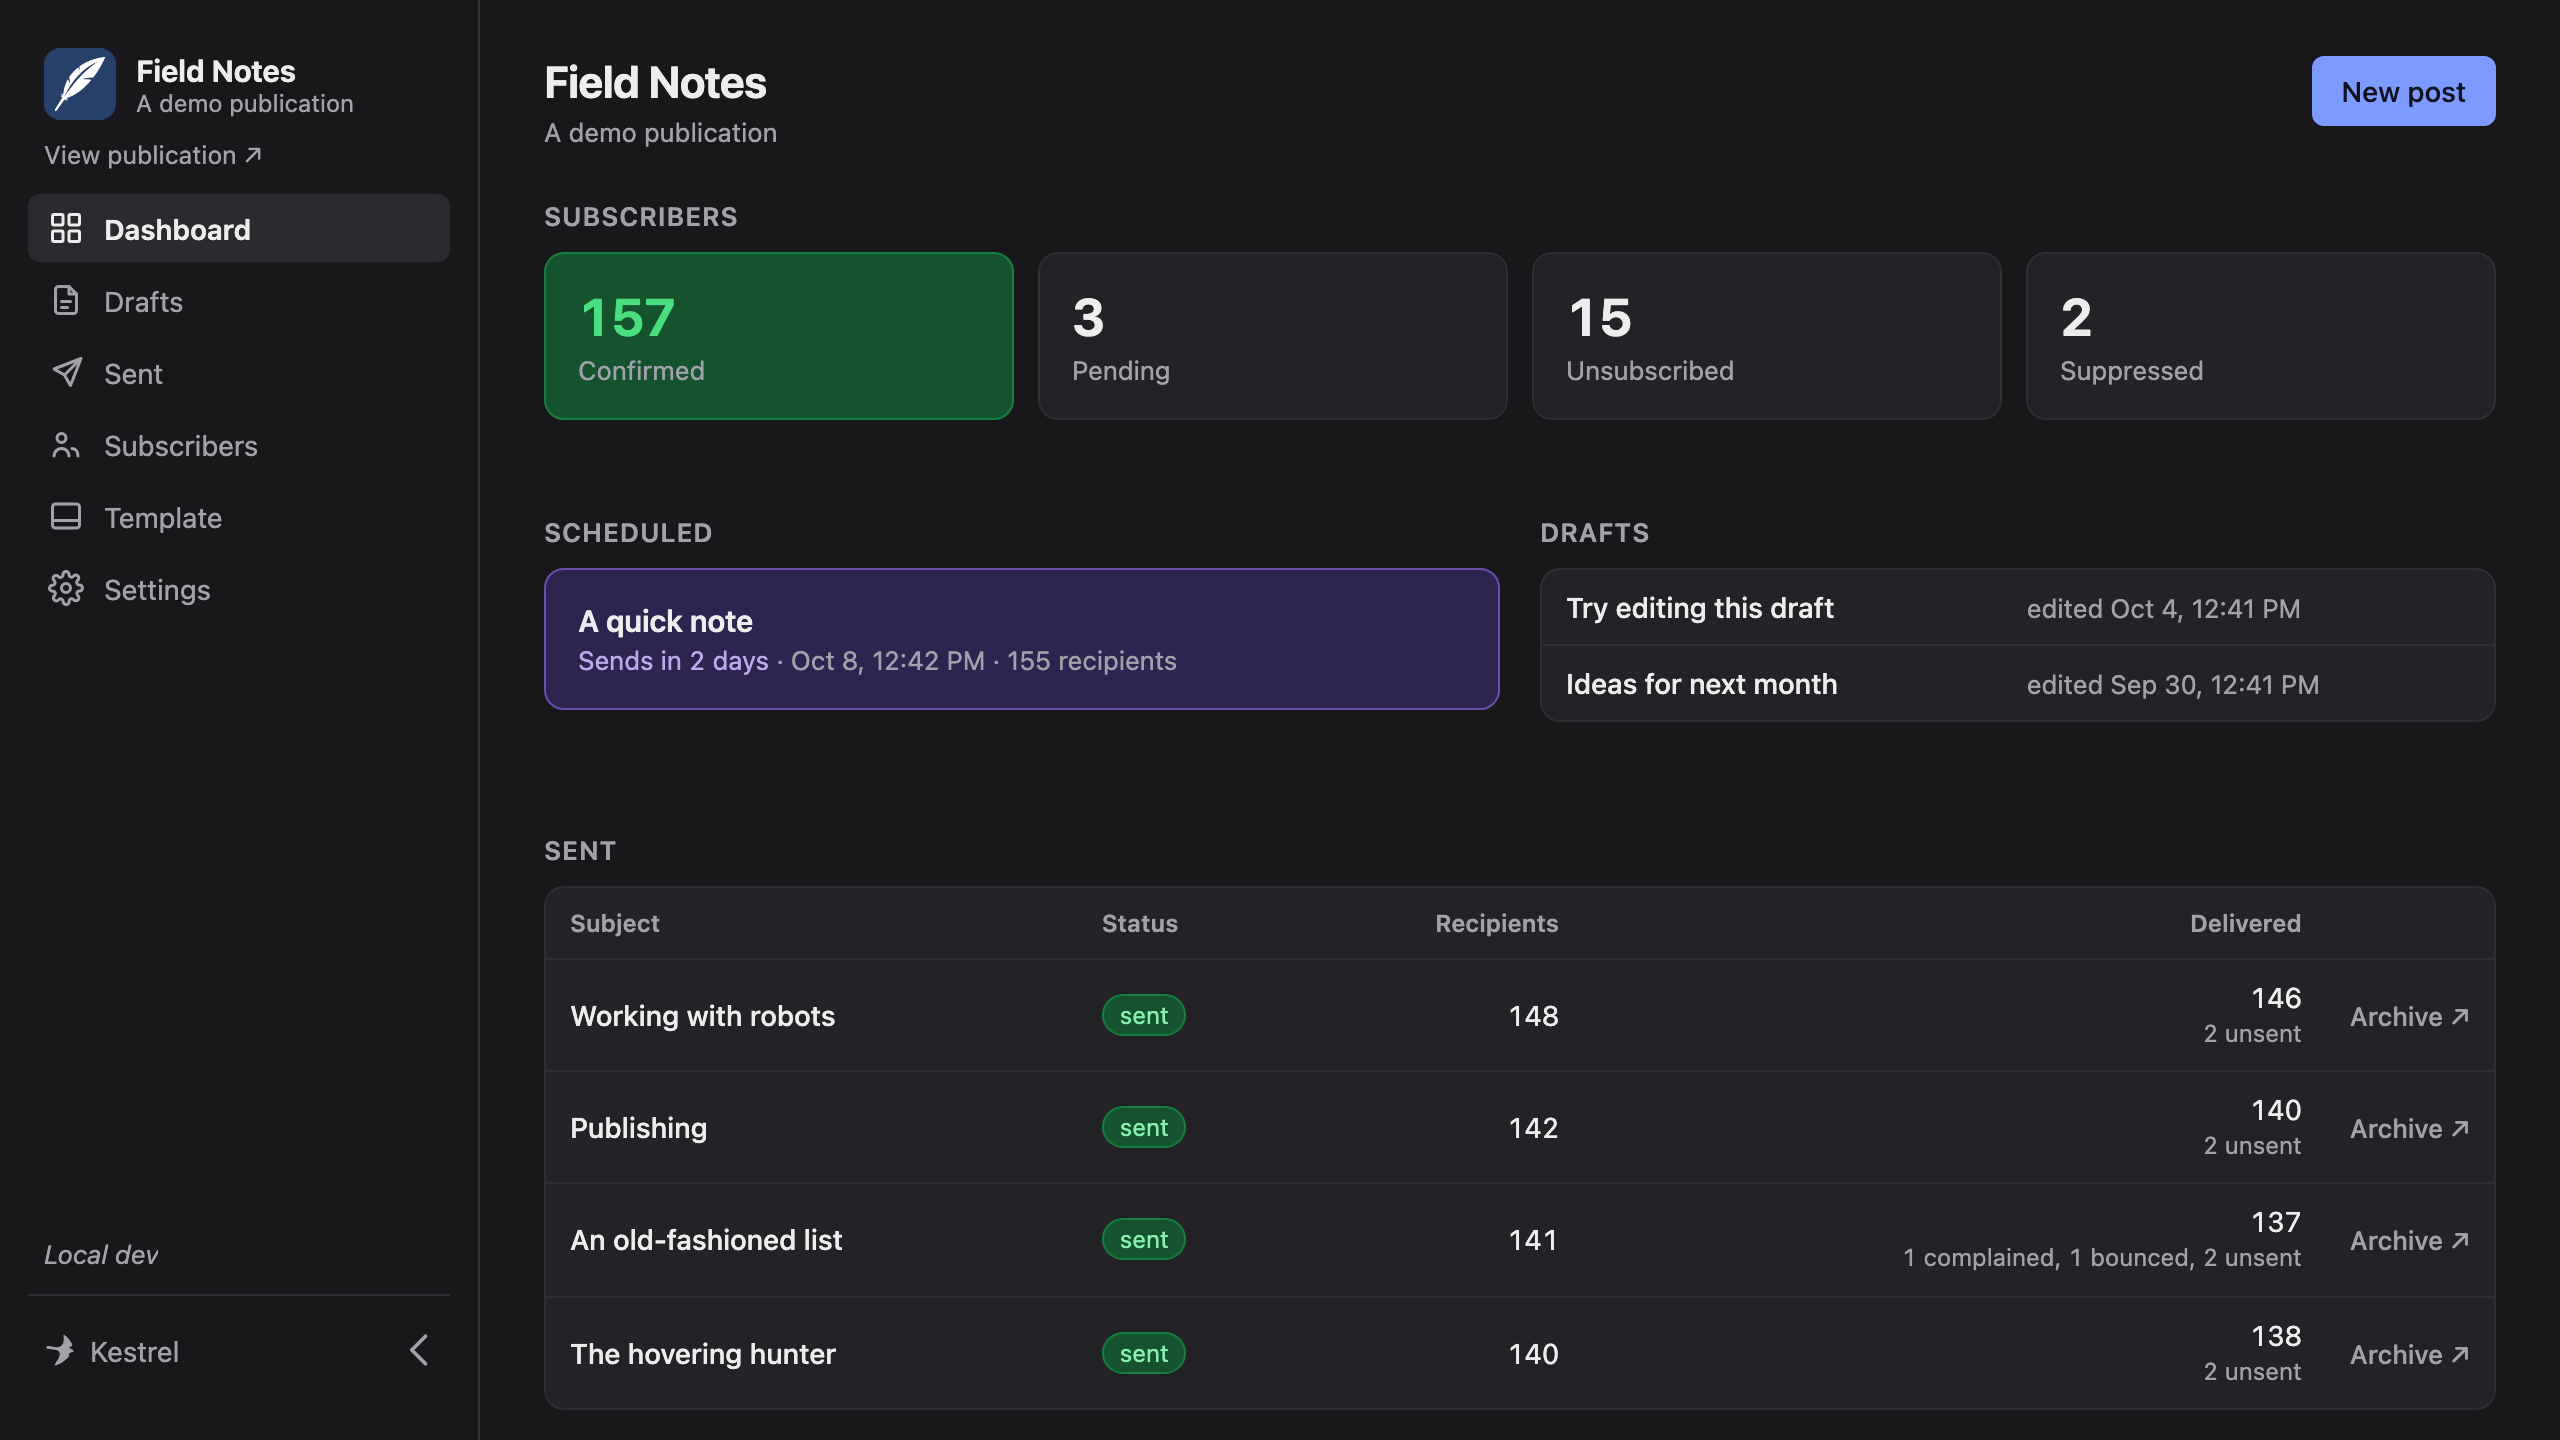
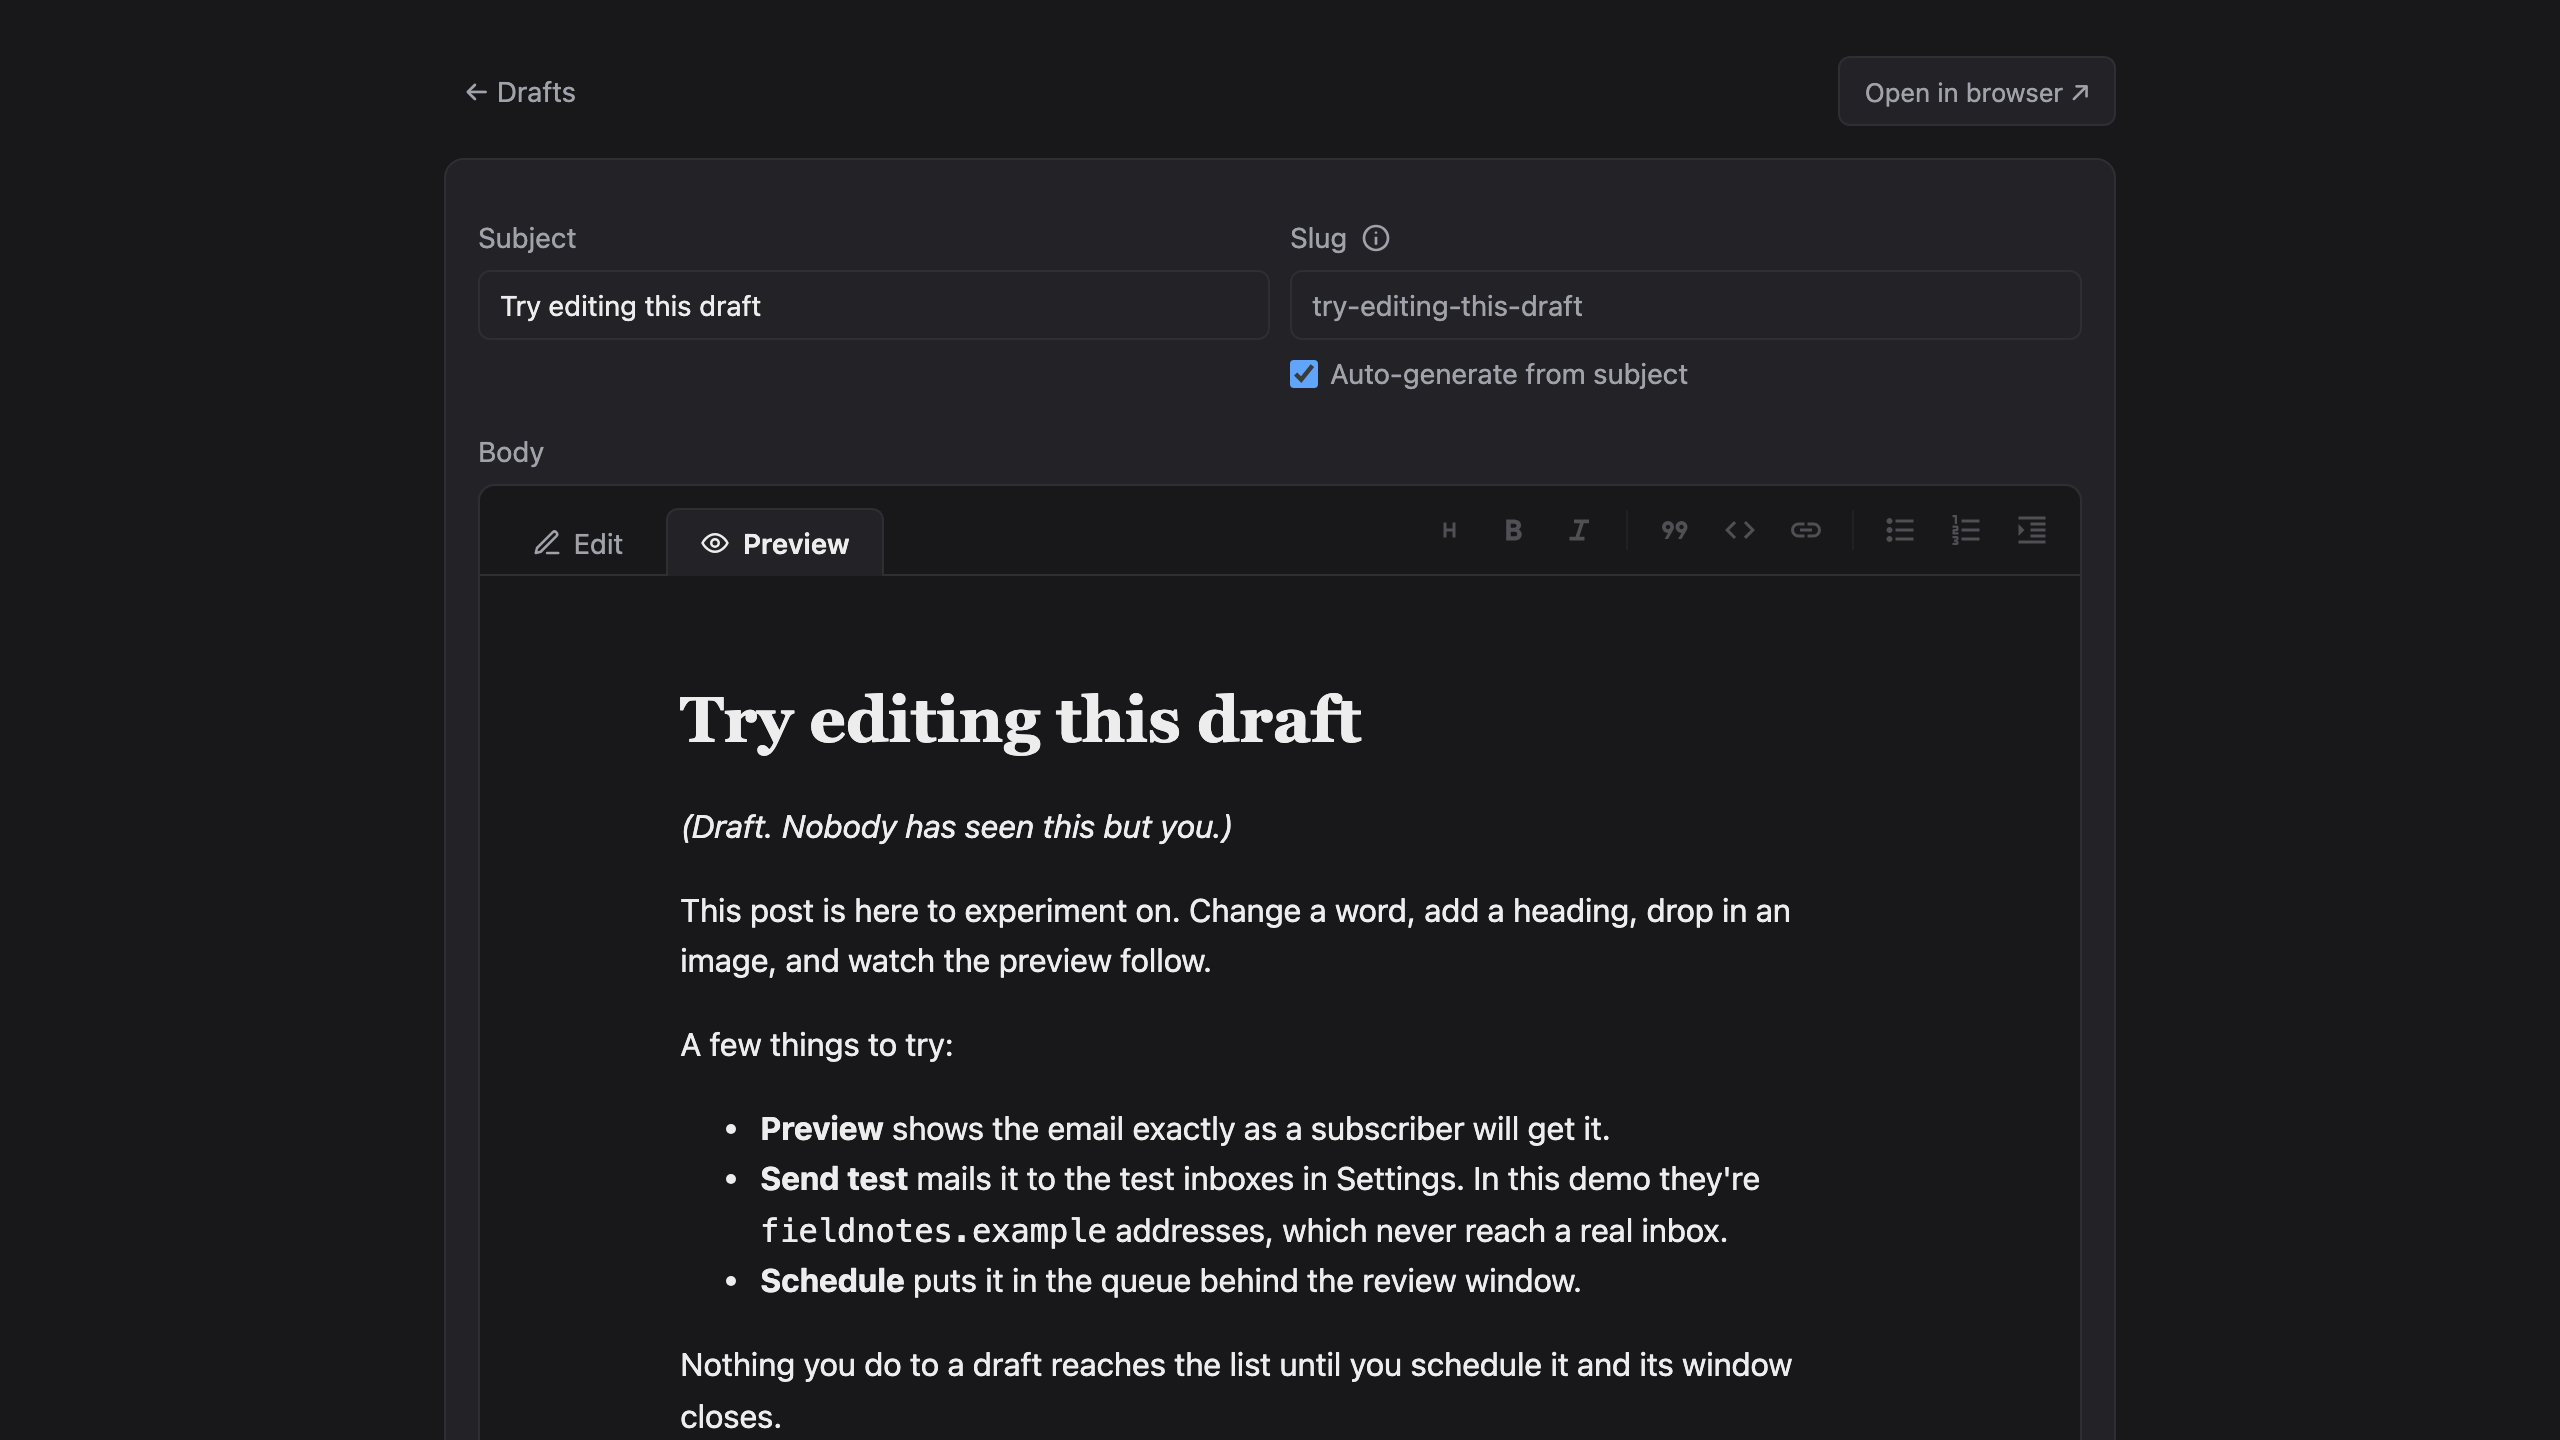
Landing: tabbed Dashboard · Editor · Archive screenshot switcher (#19)
Replace the single hero screenshot with a user-driven, WAI-ARIA tabbed switcher inside the app-preview frame. No autoplay. Each view keeps a light + dark pair, served as fingerprinted WebP at 1000w/2000w via Hugo image processing. Only the default view loads up front; the others attach their sources on first hover, focus, or select. Without JS, the tabs stay hidden and the dashboard shows.

Screenshots: rename the old editor-*.png (it was the dashboard) to dashboard-*.png, and add a real editor shot: the "Try editing this draft" draft on its Preview tab. shots.mjs gains an optional per-shot in-page `steps` script to reach it. All six were recaptured from a seeded kestrel v1.2.0.

diff --git a/layouts/index.html b/layouts/index.html
@@ -17,22 +17,96 @@
     </div>
     <p class="cta-note">Runs on your own Cloudflare account. Your data never leaves it.</p>
 
-    {{ $shotLight := resources.Get "img/editor-light.png" | fingerprint -}}
-    {{ $shotDark := resources.Get "img/editor-dark.png" | fingerprint -}}
-    <div class="preview">
+    {{/* App preview: a tabbed switcher over real screenshots (npm run shots). Each view
+         keeps a light + dark pair, swapped by prefers-color-scheme, served as WebP at two
+         widths. Only the first view loads eagerly; the others carry data-src/data-srcset,
+         which the script attaches the first time their tab is hovered, focused, or picked
+         (loading=lazy alone isn't enough: Chrome fetches lazy images in a hidden panel
+         once the frame nears the viewport). Without JS the tabs stay hidden and the
+         dashboard shows. */ -}}
+    {{ $views := slice
+      (dict "id" "dashboard" "label" "Dashboard" "path" "/dashboard/"
+        "alt" "The Kestrel dashboard for the Field Notes demo publication, showing subscriber counts, a scheduled issue, two drafts, and the sent issues with their delivery counts.")
+      (dict "id" "editor" "label" "Editor" "path" "/dashboard/#/edit/5eed0006-0000-4000-8000-000000000006"
+        "alt" "The Kestrel editor with the Field Notes draft “Try editing this draft” open on its Preview tab, showing the rendered email exactly as subscribers will receive it.")
+      (dict "id" "archive" "label" "Archive" "path" "/archive/the-hovering-hunter"
+        "alt" "A published Field Notes issue, “The hovering hunter,” on its permanent public archive page, with a photo of a kestrel in flight.")
+    -}}
+    {{ $sizes := "(min-width: 1024px) 976px, calc(100vw - 48px)" -}}
+    <div class="preview" data-preview>
       <div class="preview-bar">
         <span class="dot"></span><span class="dot"></span><span class="dot"></span>
-        <span class="addr">localhost:8787/dashboard</span>
+        <span class="addr" data-addr>localhost:8787{{ (index $views 0).path }}</span>
+        <div class="preview-tabs" role="tablist" aria-label="App screenshots" hidden>
+          {{- range $i, $v := $views }}
+          <button type="button" role="tab" id="shot-tab-{{ $v.id }}" aria-controls="shot-{{ $v.id }}"
+            aria-selected="{{ if eq $i 0 }}true{{ else }}false{{ end }}"{{ if ne $i 0 }} tabindex="-1"{{ end }}
+            data-path="{{ $v.path }}">{{ $v.label }}</button>
+          {{- end }}
+        </div>
       </div>
-      <div class="preview-body">
+      {{- range $i, $v := $views }}
+      {{- $light := resources.Get (printf "img/%s-light.png" $v.id) -}}
+      {{- $dark := resources.Get (printf "img/%s-dark.png" $v.id) -}}
+      {{- $l1 := $light.Resize "1000x webp q82" | fingerprint -}}
+      {{- $l2 := $light.Resize "2000x webp q82" | fingerprint -}}
+      {{- $d1 := $dark.Resize "1000x webp q82" | fingerprint -}}
+      {{- $d2 := $dark.Resize "2000x webp q82" | fingerprint }}
+      {{- $pre := cond (eq $i 0) "" "data-" }}
+      <div class="preview-body" role="tabpanel" id="shot-{{ $v.id }}" aria-labelledby="shot-tab-{{ $v.id }}"{{ if ne $i 0 }} hidden{{ end }}>
         <picture>
-          <source srcset="{{ $shotDark.RelPermalink }}" media="(prefers-color-scheme: dark)">
-          <img src="{{ $shotLight.RelPermalink }}" width="2560" height="1440" loading="eager"
-            decoding="async"
-            alt="The Kestrel editor: the dashboard for the Field Notes demo publication, showing subscriber counts, a scheduled issue, two drafts, and the sent issues.">
+          <source type="image/webp" media="(prefers-color-scheme: dark)" sizes="{{ $sizes }}"
+            {{ $pre | safeHTMLAttr }}srcset="{{ $d1.RelPermalink }} 1000w, {{ $d2.RelPermalink }} 2000w">
+          <source type="image/webp" sizes="{{ $sizes }}"
+            {{ $pre | safeHTMLAttr }}srcset="{{ $l1.RelPermalink }} 1000w, {{ $l2.RelPermalink }} 2000w">
+          <img {{ $pre | safeHTMLAttr }}src="{{ $l2.RelPermalink }}" width="2000" height="1125" decoding="async"
+            alt="{{ $v.alt }}">
         </picture>
       </div>
+      {{- end }}
     </div>
+    <script>
+      // The preview's tabs (WAI-ARIA tabs, automatic activation): click or arrow keys
+      // swap the panel and the fake address bar. No autoplay; the reader drives it.
+      (function () {
+        var root = document.querySelector("[data-preview]");
+        if (!root) { return; }
+        var list = root.querySelector("[role=tablist]");
+        var tabs = Array.prototype.slice.call(list.querySelectorAll("[role=tab]"));
+        var addr = root.querySelector("[data-addr]");
+        // Attach a panel's deferred image sources (a no-op once they're attached).
+        function hydrate(tab) {
+          var panel = document.getElementById(tab.getAttribute("aria-controls"));
+          panel.querySelectorAll("[data-srcset], [data-src]").forEach(function (el) {
+            if (el.dataset.srcset) { el.srcset = el.dataset.srcset; el.removeAttribute("data-srcset"); }
+            if (el.dataset.src) { el.src = el.dataset.src; el.removeAttribute("data-src"); }
+          });
+        }
+        function select(tab, focus) {
+          hydrate(tab);
+          tabs.forEach(function (t) {
+            var on = t === tab;
+            t.setAttribute("aria-selected", on ? "true" : "false");
+            t.tabIndex = on ? 0 : -1;
+            document.getElementById(t.getAttribute("aria-controls")).hidden = !on;
+          });
+          addr.textContent = "localhost:8787" + tab.dataset.path;
+          if (focus) { tab.focus(); }
+        }
+        tabs.forEach(function (tab, i) {
+          tab.addEventListener("click", function () { select(tab, false); });
+          tab.addEventListener("pointerenter", function () { hydrate(tab); });
+          tab.addEventListener("focus", function () { hydrate(tab); });
+          tab.addEventListener("keydown", function (e) {
+            var next = { ArrowRight: i + 1, ArrowLeft: i - 1, Home: 0, End: tabs.length - 1 }[e.key];
+            if (next === undefined) { return; }
+            e.preventDefault();
+            select(tabs[(next + tabs.length) % tabs.length], true);
+          });
+        });
+        list.hidden = false;
+      })();
+    </script>
   </div>
 </section>
 

diff --git a/assets/css/main.css b/assets/css/main.css
@@ -184,8 +184,9 @@ h1, h2, h3 {
 .hero .cta-note { font-family: var(--mono); font-size: 12.5px; color: var(--muted); margin: 18px 0 0; }
 .hero .cta-note code { background: none; padding: 0; }
 
-/* app preview frame — a browser-chrome shell around a real editor screenshot
-   (assets/img/editor-{light,dark}.png, swapped by prefers-color-scheme). */
+/* app preview frame — a browser-chrome shell around real app screenshots
+   (assets/img/{dashboard,editor,archive}-{light,dark}.png, swapped by
+   prefers-color-scheme), with tabs in the bar to switch between views. */
 .preview {
   margin: 56px 0 8px;
   border: 1px solid var(--line-strong);
@@ -204,12 +205,32 @@ h1, h2, h3 {
 }
 .preview-bar .dot { width: 11px; height: 11px; border-radius: 50%; background: var(--line-strong); }
 .preview-bar .addr {
+  flex: 1 1 0;
+  min-width: 0;
   margin-left: 10px;
   font-family: var(--mono);
   font-size: 12px;
   color: var(--muted);
+  white-space: nowrap;
+  overflow: hidden;
+  text-overflow: ellipsis;
 }
+.preview-tabs { display: flex; gap: 2px; margin: -4px -8px -4px 0; }
+.preview-tabs[hidden] { display: none; }
+.preview-tabs [role=tab] {
+  font: 500 13px/1 var(--sans);
+  color: var(--muted);
+  background: none;
+  border: 1px solid transparent;
+  border-radius: var(--radius-sm);
+  padding: 7px 10px;
+  cursor: pointer;
+}
+.preview-tabs [role=tab]:hover { color: var(--ink); }
+.preview-tabs [role=tab][aria-selected=true] { color: var(--ink); background: var(--card); border-color: var(--line-strong); }
+.preview-tabs [role=tab]:focus-visible { outline: 2px solid var(--ring); outline-offset: 1px; }
 .preview-body { display: block; }
+.preview-body[hidden] { display: none; }
 .preview-body picture, .preview-body img { display: block; width: 100%; height: auto; }
 
 /* -------------------------------------------------------------- own cards */
@@ -335,6 +356,9 @@ pre .muted { color: var(--muted); }
   .grid-4, .grid-3, .grid-2 { grid-template-columns: 1fr; }
   .nav .nav-link { display: none; }       /* keep only the CTA on small screens */
   .flow-step { grid-template-columns: 1fr; row-gap: 2px; }
+  /* tabs drop to their own row so the address stays readable */
+  .preview-bar { flex-wrap: wrap; row-gap: 10px; }
+  .preview-tabs { flex-basis: 100%; margin: 0 0 -4px -8px; }
   .flow-step::before { grid-column: 1; grid-row: auto; padding-top: 0; }
   .flow-step h3 { grid-column: 1; grid-row: auto; }
   .flow-step p { grid-column: 1; grid-row: auto; }

diff --git a/.claude/skills/refresh-from-kestrel/SKILL.md b/.claude/skills/refresh-from-kestrel/SKILL.md
@@ -119,7 +119,7 @@ This is the whole reason a skill does this and a `sed` script cannot: whether a
 claim is still true is a judgement, made by reading the real copy against the real
 delta, not a keyword match. Two things to hold onto:
 
-- **The screenshot is the easiest thing to miss** and the one a `/docs` re-sync will never catch. Any editor or dashboard UI change in the delta makes `assets/img/editor-*.png` suspect — treat it as its own mandatory check, not an afterthought.
+- **The screenshot is the easiest thing to miss** and the one a `/docs` re-sync will never catch. Any editor or dashboard UI change in the delta makes `assets/img/{dashboard,editor}-*.png` suspect — treat it as its own mandatory check, not an afterthought.
 - **Only fix copy that has become *wrong*, not copy that has become *incomplete*.** The landing describes what the app *is*, not its full feature list; new-feature marketing is a separate, deliberate decision (#5), not part of a version bump.
 
 ### 4. Bump the pin and prove the build
